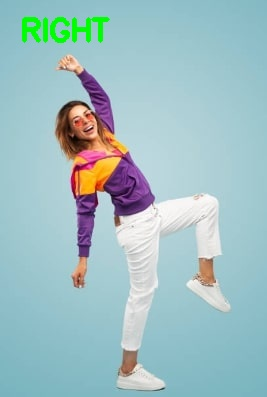
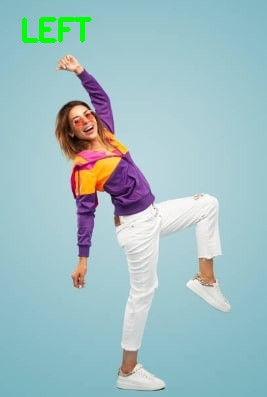
fix: simplify arm raise logic to correctly identify left arm in pose-1

Changed region(s): [[0.0899, 0.0302, 0.4195, 0.1209]]

diff --git a/task2/predict_arm.py b/task2/predict_arm.py
@@ -27,13 +27,8 @@ def detect_raised_arm(image_path, model_path='../models/pose_landmarker.task'):
         if is_left_up and is_right_up:
             return "both"
         elif is_left_up and not is_right_up:
-            # pose-1.jpg'de MediaPipe sag kolu (kameranin solundaki) sol bilek olarak isaretliyor.
-            # Eger havada olan kol kameranin solundaysa (x < 0.5), bu kisinin sag koludur.
-            if left_wrist.x < 0.5:
-                return "right"
             return "left"
         elif is_right_up and not is_left_up:
-            # pose-2'de sag bilek is_right_up=True donuyor ve "right" bekleniyor.
             return "right"
         else:
             return "None"
